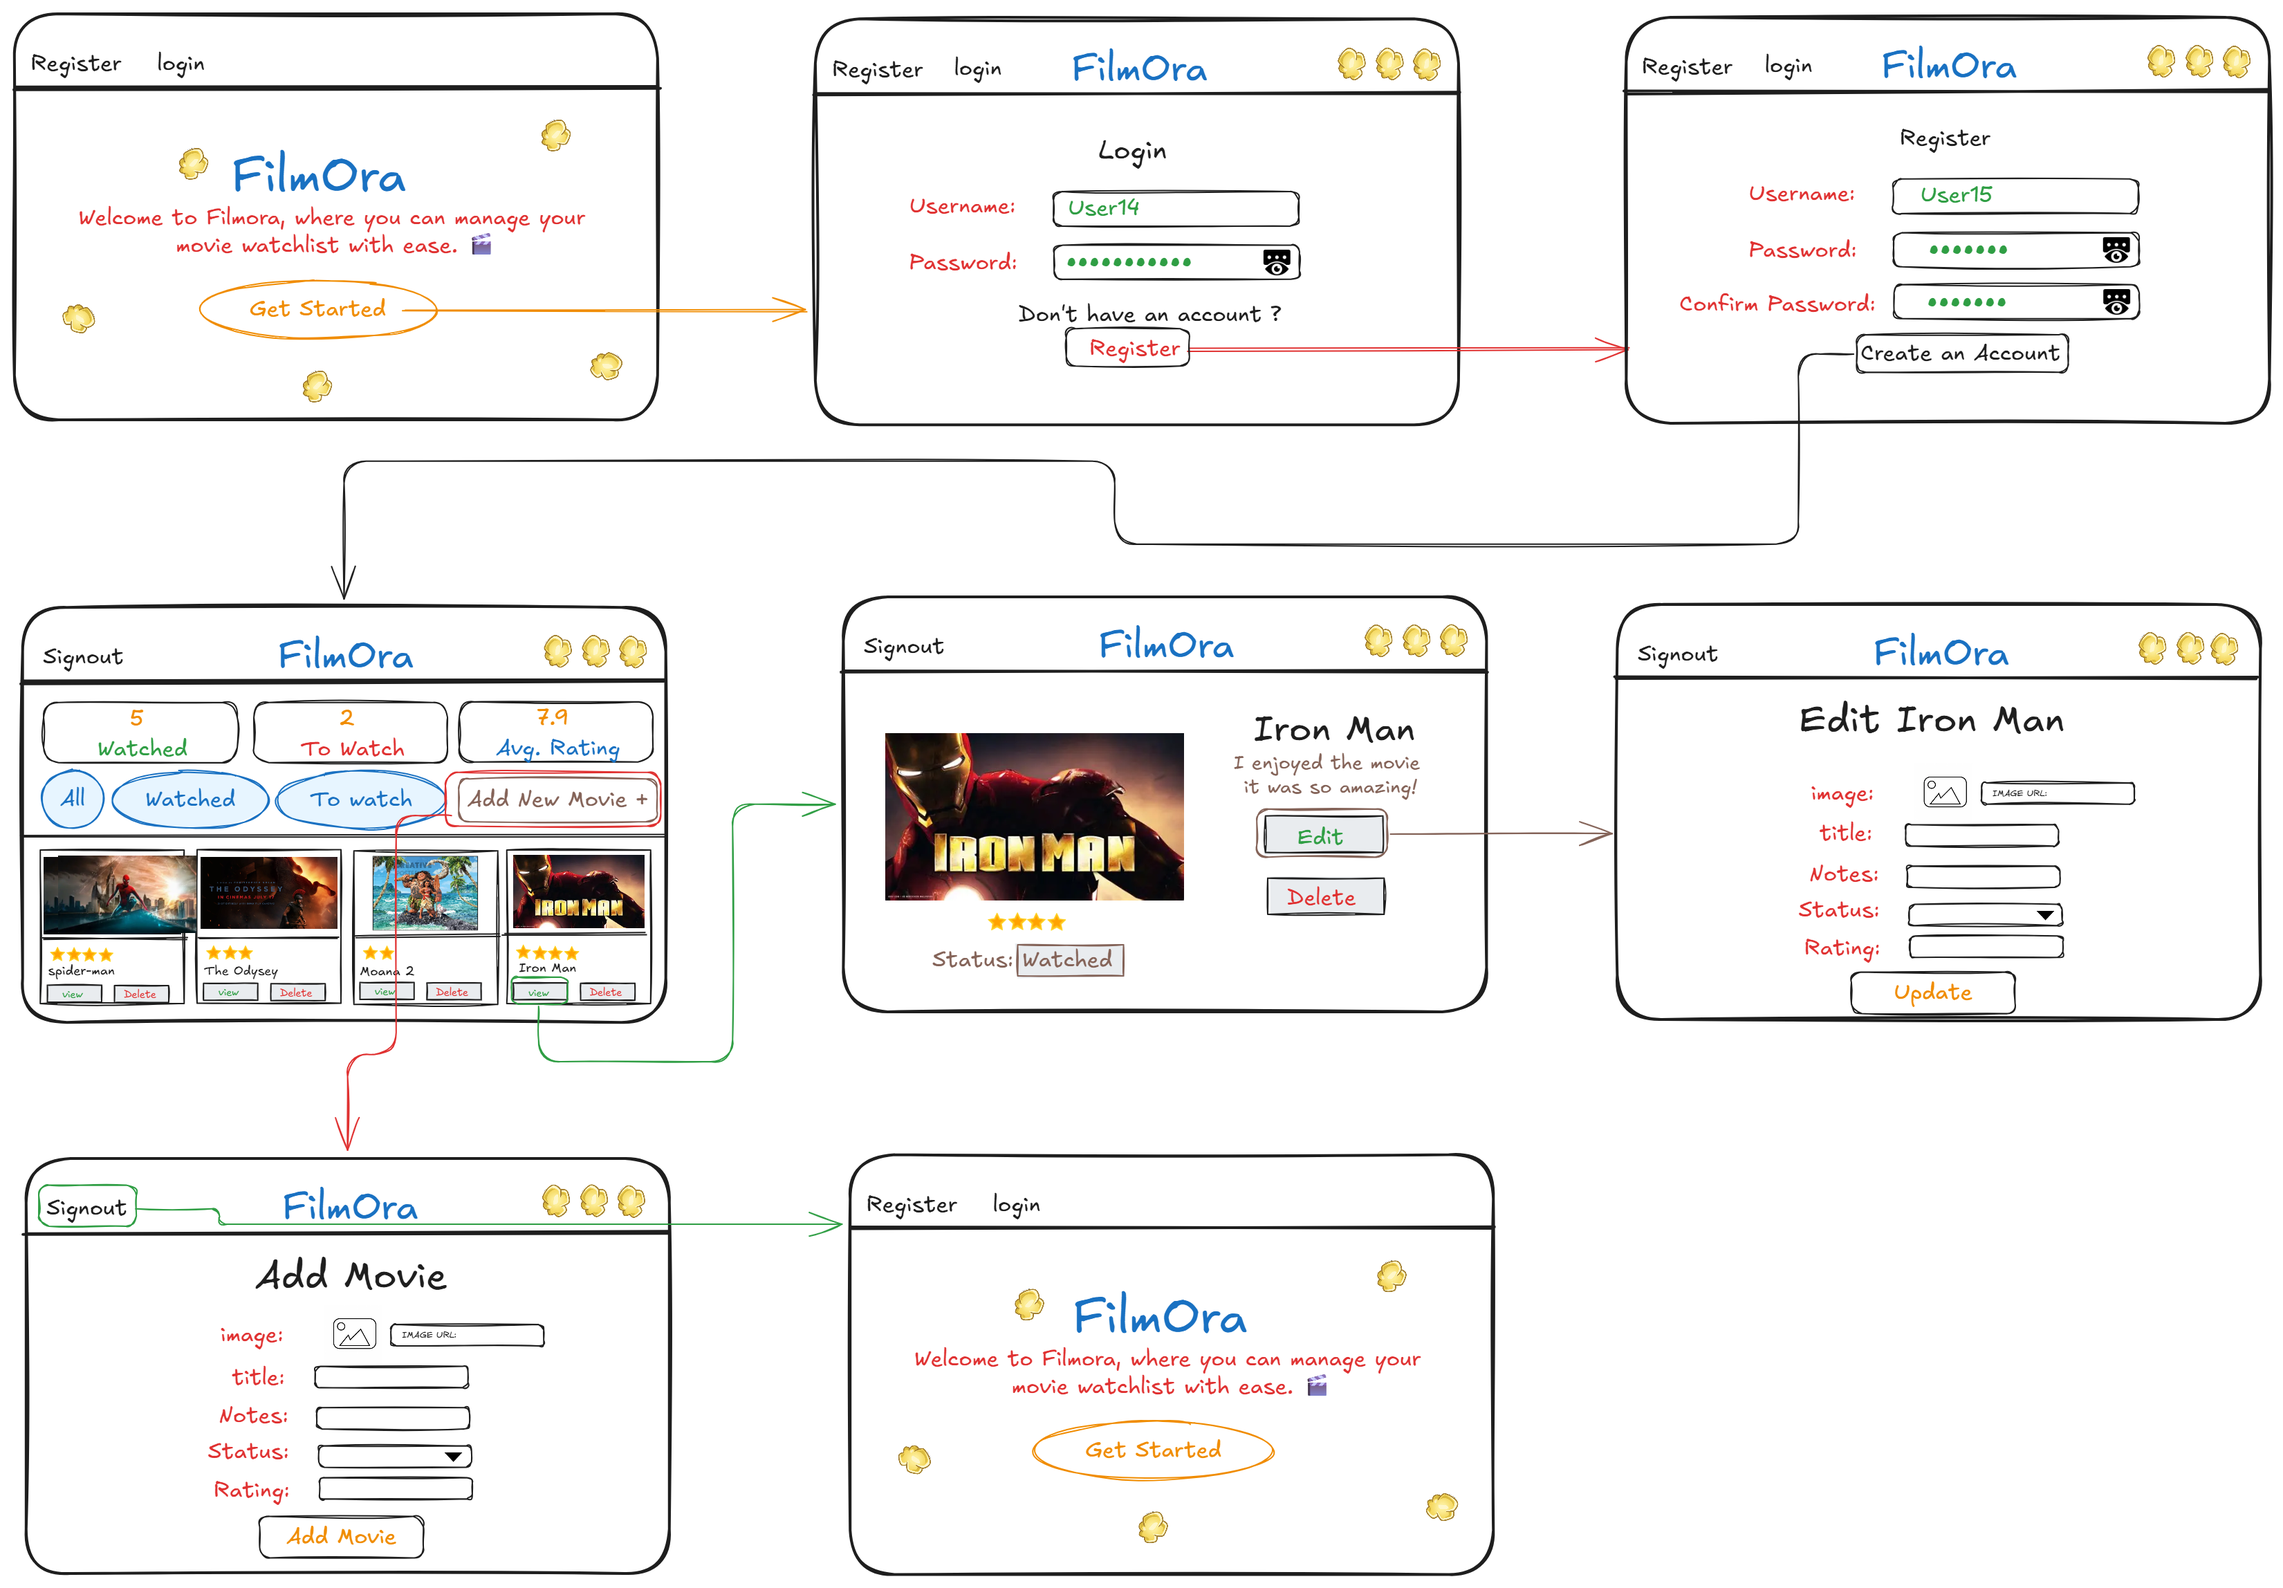
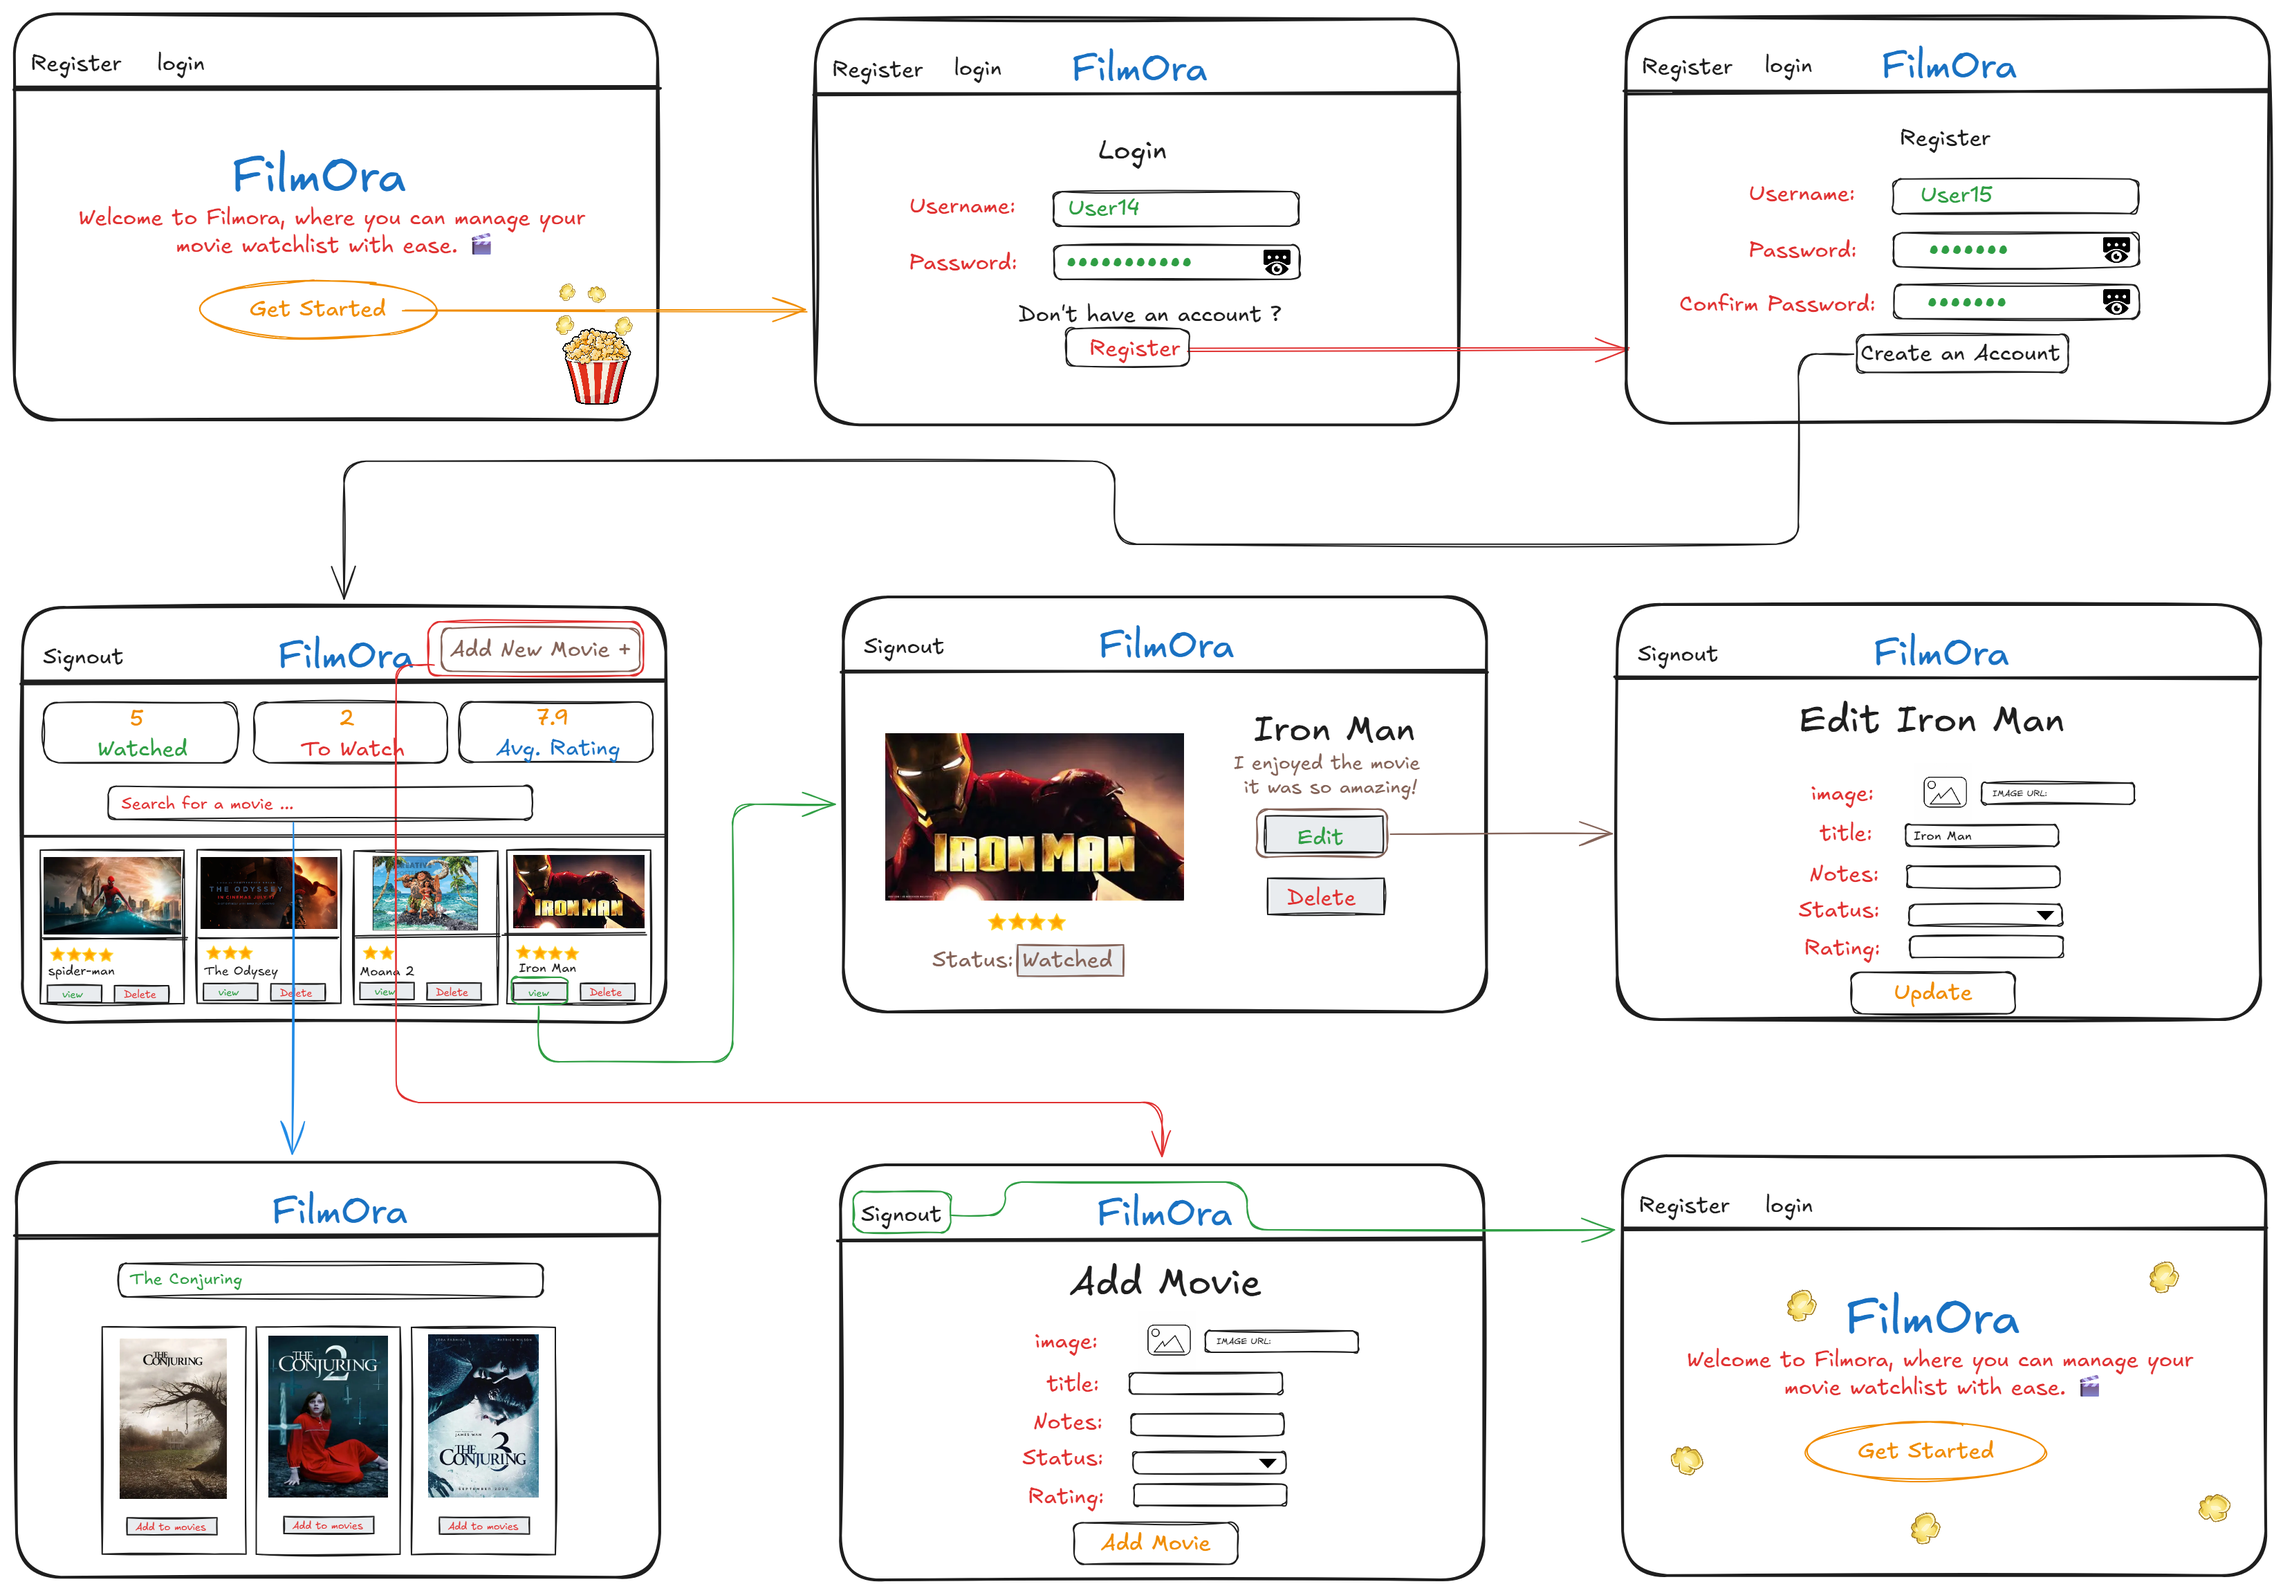
Final Updates on FilmOra Project

diff --git a/controllers/authCtrl.js b/controllers/authCtrl.js
@@ -1,5 +1,3 @@
-/* eslint-disable no-empty */
-/* eslint-disable no-console */
 const bcrypt = require('bcrypt');
 const User = require('../models/user');
 
@@ -11,34 +9,31 @@ const signup = async (req, res) => {
 
 const register = async (req, res) => {
   try {
-    // verify if the username alrady exists
+  
     const userInDatabase = await User.findOne({ username: req.body.username });
-    // if the user exists send error msg
+    
     if (userInDatabase) {
       return res.send('Invalid input');
     }
-    // else send error msg
+    
     if (req.body.password !== req.body.confirmPassword) {
       return res.send('Invalid input');
     }
-    // Encrypt the password
+    
     const hashedPassword = bcrypt.hashSync(req.body.password, SALT_ROUDS);
     req.body.password = hashedPassword;
 
-    // else lets check if the password match
-    // if password matches create the new user
     const user = await User.create(req.body);
 
     req.session.user = {
       username: user.username,
       _id: user._id,
     };
-    // redirect to homepage
     req.session.save(() => {
       res.redirect('/');
     });
   } catch (err) {
-    console.log(err);
+    
     res.send('something went wrong');
   }
 };
@@ -50,19 +45,14 @@ const signin = async (req, res) => {
 const login = async (req, res) => {
   const userInDatabase = await User.findOne({ username: req.body.username });
 
-  // only allow users that exist to login
   if (!userInDatabase) {
     return res.send('Invalid credentials');
   }
 
-  // make sure the user's password matches the req.body.password
   if (!bcrypt.compareSync(req.body.password, userInDatabase.password)) {
     return res.send('Invalid credentials');
   }
 
-  // There is a user AND they had the correct password. Time to make a session!
-  // Avoid storing the password, even in hashed format, in the session
-  // If there is other data you want to save to `req.session.user`, do so here!
   req.session.user = {
     username: userInDatabase.username,
     _id: userInDatabase._id,

diff --git a/controllers/movieCtrl.js b/controllers/movieCtrl.js
@@ -9,7 +9,6 @@ const index = async (req, res) => {
         });
 
     } catch (err) {
-        console.log(err);
         res.redirect('/');
     }
 };
@@ -19,7 +18,6 @@ const newMovie = async(req,res)=>{
         res.render('movies/new.ejs');
         
     }catch(err){
-        console.log(err)
         res.redirect('/')
     }
 
@@ -27,8 +25,6 @@ const newMovie = async(req,res)=>{
 
 const createMovie = async(req,res)=>{
     try{
-        console.log(req.body);
-
         const user = await User.findById(req.session.user._id);
         
         user.movies.push(req.body);
@@ -37,7 +33,6 @@ const createMovie = async(req,res)=>{
         
         res.redirect('/movies');
     }catch(err){
-        console.log(err)
         res.render('/movies/new')
     }
 }
@@ -54,7 +49,6 @@ const showMovie = async (req, res) => {
 
     res.render('movies/show.ejs', { movie });
   } catch (err) {
-    console.log(err);
     res.redirect('/movies');
   }
 };
@@ -68,7 +62,6 @@ const editMovie = async(req,res)=>{
         res.render('movies/edit.ejs', {movie});
     
     }catch(err){
-        console.log(err)
         res.redirect('/');
     }
 }
@@ -85,7 +78,6 @@ const updateMovie = async (req, res) => {
 
     res.redirect(`/movies/${movie._id}`);
   } catch (err) {
-    console.log(err);
     res.redirect('/movies');
   }
 };
@@ -103,7 +95,6 @@ const deleteMovie = async (req, res) => {
         res.redirect('/movies');
 
     } catch (err) {
-        console.log(err);
         res.redirect('/movies');
     }
 };
@@ -122,7 +113,6 @@ const searchMovies = async (req, res) => {
         });
 
     } catch (err) {
-        console.log(err);
         res.redirect('/');
     }
 };
@@ -142,7 +132,6 @@ const addNewMovie = async (req, res) => {
         res.redirect('/movies');
 
     } catch (err) {
-        console.log(err);
         res.redirect('/');
         
     }

diff --git a/server.js b/server.js
@@ -1,4 +1,3 @@
-/* eslint-disable prefer-destructuring */
 require("dotenv").config();
 require("./config/database");
 
@@ -13,7 +12,6 @@ if (isProduction) {
   app.set('trust proxy', 1);
 }
 
-// Middleware
 const session = require("express-session");
 const MongoStore = require("connect-mongo").MongoStore;
 const methodOverride = require("method-override");
@@ -21,23 +19,21 @@ const morgan = require("morgan");
 const isSignedIn = require("./middleware/isSignedIn");
 const addUserToViews = require("./middleware/addUserToViews");
 
-// Routers
 const authRouter = require("./routes/authRouter");
 const pagesRouter = require("./routes/pagesRouter");
 const movieRouter = require("./routes/movieRouter");
 
-
-// Set the port from environment variable or default to 3000
 const port = process.env.PORT ? process.env.PORT : "3000";
 
-// MIDDLEWARE
+
 app.use(express.static(path.join(__dirname, "public")));
-// Middleware to parse URL-encoded data from forms
+
 app.use(express.urlencoded({ extended: false }));
-// Middleware for using HTTP verbs such as PUT or DELETE
+
 app.use(methodOverride("_method"));
-// Morgan for logging HTTP requests
+
 app.use(morgan("dev"));
+
 app.use(
   session({
     secret: process.env.SESSION_SECRET,
@@ -53,19 +49,18 @@ app.use(
 );
 app.use(addUserToViews);
 
-// ROUTES
+
 app.use("", pagesRouter);
 app.use("/auth", authRouter);
 app.use("/movies", movieRouter);
 
-// Customer middleware
 app.use(isSignedIn);
 
 app.get("/protected", async (req, res) => {
   res.send(`You are logged in as ${req.session.user.username}`);
 });
 
-//port
+
 app.listen(port,'0.0.0.0', () => {
   console.log(`The express app is ready on port ${port}!`);
 });

diff --git a/routes/authRouter.js b/routes/authRouter.js
@@ -10,7 +10,6 @@ router.post('/sign-up', authCtrl.register);
 router.get('/sign-in', authCtrl.signin);
 router.post('/sign-in', authCtrl.login);
 
-// PRIVATE ROUTES
 router.get('/sign-out', isSignedIn, authCtrl.signout);
 
 module.exports = router;

diff --git a/public/stylesheets/style.css b/public/stylesheets/style.css
@@ -231,8 +231,6 @@ body {
     border-radius: 8px;
 }
 
-/* Movie Show Page */
-
 .movie-show {
     width: 80%;
     max-width: 900px;
@@ -286,7 +284,6 @@ body {
     cursor: pointer;
     font-size: 15px;
 }
-
 
 .rating {
     margin-top: 15px;

diff --git a/routes/movieRouter.js b/routes/movieRouter.js
@@ -4,9 +4,6 @@ const router = express.Router();
 
 const movieCtrl = require("../controllers/movieCtrl");
 
-
-//Movies
-
 router.get("/",movieCtrl.index);
 router.get("/search",movieCtrl.searchMovies);
 router.post("/add",movieCtrl.addNewMovie);

diff --git a/models/user.js b/models/user.js
@@ -48,9 +48,7 @@ const userSchema = new mongoose.Schema({
   movies: [movieSchema],
 
 });
-// initial the model
 
 const User = mongoose.model('User', userSchema);
 
-// export it
 module.exports = User;

diff --git a/controllers/pagesCtrl.js b/controllers/pagesCtrl.js
@@ -52,7 +52,6 @@ const averageRating = ratedMovies.length
     }
 
   } catch (err) {
-    console.log(err);
     res.redirect('/');
   }
 };

diff --git a/README.md b/README.md
@@ -1,25 +1,66 @@
 # FilmOra 🎞
-A ***personal watchlist-site*** where users can **A**dd, **E**dit, **U**pdate, and **D**elete a movie. User can also add *Rating* and *Status*. 
-<br><br>
-<img src="https://media3.giphy.com/media/3o7rc0qU6m5hneMsuc/giphy.gif" width="300" height = "250" border="2" align="center" />
+
+FilmOra is a full-stack movie watchlist application that allows users to search, organize, and manage their personal movie collections. The platform provides full CRUD functionality, enabling users to create, view, update, and delete movie entries while tracking ratings and viewing status.
+
+## Key Features
+
+- 🔐 User authentication
+- 🔎 Movie search using the OMDb API
+- ➕ Add movies to a personal collection
+- ✏ Edit movie information
+- ⭐ Rate movies
+- 🎬 Track movie status
+- 🗑 Delete movies
+- 📊 View personal movie collection
+
+
+## Screenshot of FilmOra
+
+![FilmOra Screenshot](./FilmOra.png)
+
+## Live Demo
+
+🔗 [Visit FilmOra](https://filmora-tnxu.onrender.com/)
 
 ## User Stories
--  As a user, I want to able to create an account
-- As a user, I want to able to log on to my account 
-- As a user, I want to able to log out from my account 
-- As a user, I should be able to add a movie to my collection
-- As a user, I should able to view my movies collections
-- As a user, I should able to edit the movie, status, rating and other informations
-- As a user, I should be able to delete movies from my movie collection
-- As a user, I want to rate a movie so that I can record my opinion of it
-- As a user, I want to mark the status of the movie: *Watched*,*To watch later*, *Not yet*.
-- As a user, I want to see my watched and unwatched movies separately so that I can manage my watchlist.
-- As a user, I want to search for a movie by title so that I can quickly find it.
 
-## WireFrame 
+- As a user, I want to be able to create an account.
+- As a user, I want to be able to log in to my account.
+- As a user, I want to be able to log out of my account.
+- As a user, I should be able to search for a movie and add it to my collection.
+- As a user, I should be able to view my movie collection.
+- As a user, I should be able to edit a movie's status, rating, and other information.
+- As a user, I should be able to delete movies from my movie collection.
+- As a user, I want to rate a movie so that I can record my opinion of it.
+- As a user, I want to set the movie status to **Watched**, **To Watch**, or **Not Yet**.
 
-<img src="wireFrame_FilmOra.png" alt="Filmora Wireframe">
+## Wireframe
+
+<img src="wireFrame_FilmOra.png" alt="FilmOra Wireframe">
 
 ## ERD
 
-<img src="ERD_FilmOra.drawio.png" alt="Filmora Wireframe">
+<img src="ERD_FilmOra.drawio.png" alt="FilmOra ERD">
+
+## Attributions
+
+- Movie information and posters: [OMDb API](https://www.omdbapi.com/)
+- Font: [Poppins](https://fonts.google.com/specimen/Poppins) by Google Fonts
+
+## Technologies Used
+
+**Frontend:** HTML, CSS, JavaScript, EJS  
+**Backend:** Node.js, Express.js  
+**Database:** MongoDB, Mongoose  
+**API:** OMDb API  
+**Deployment:** Render  
+**Version Control:** Git & GitHub
+
+## Future Work
+
+- Add user profile customization.
+- Add movie search filters by genre, year, and rating.
+- Add a favorites feature.
+- Add movie recommendations based on the user's watchlist.
+- Improve mobile responsiveness and overall UI.
+- Add more detailed movie information, such as cast, genre, and plot.
